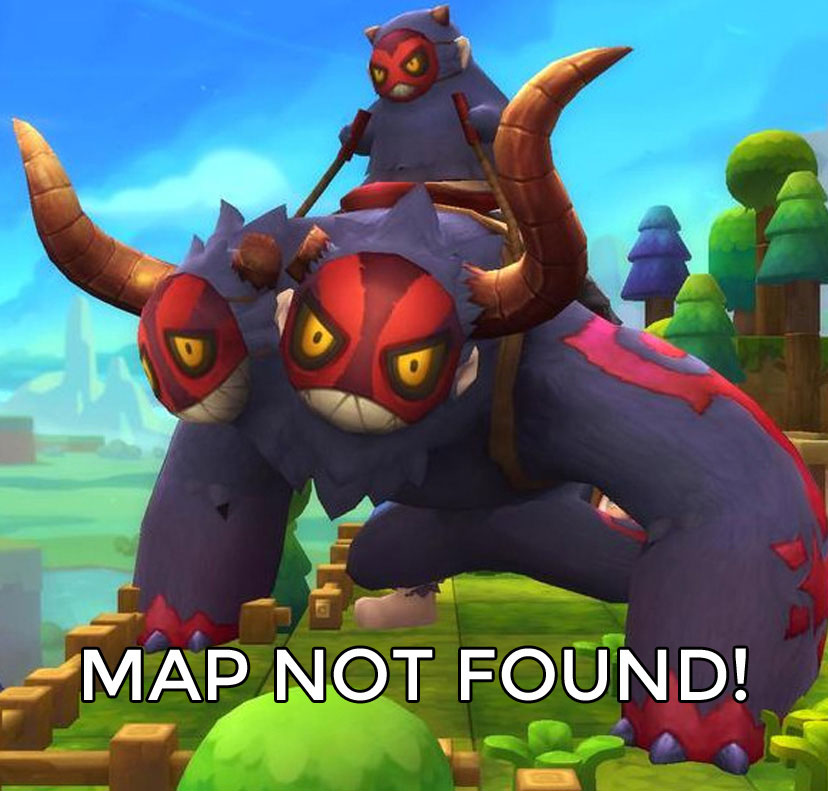
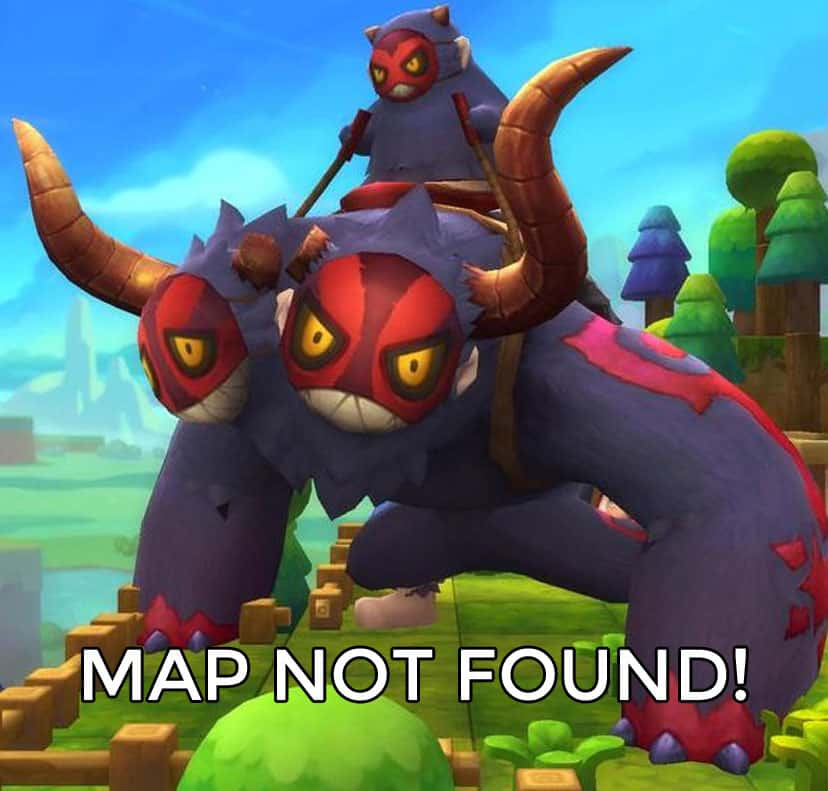
Optimization
Some image optimization.

Removed the loading of custom font "Montserrat". The improvement it gave wasn't big enough to hold up for the extra waiting time it took for it to load in.

diff --git a/stylesheets/index.css b/stylesheets/index.css
@@ -182,7 +182,7 @@ footer p{
 
 #cookies p{
 	color: #CCC;
-	font-size: 12px;
+	font-size: 11px;
 	white-space: pre-line;	
 }
 
@@ -361,15 +361,16 @@ footer p{
 }
 
 #golden_treasure{
-	position: relative;
+    position: relative;
     top: 50px;
     width: 1107px;
-    height: 791px;
-    background-image: url(../images/board.png);
+    height: 714px;
+    background-image: url(../images/board.jpg);
     background-repeat: no-repeat;
     background-size: contain;
-	margin-left: auto;
-	margin-right: auto;
+    margin-left: auto;
+    margin-right: auto;
+    border-radius: 5px;
 }
 
 #search{
@@ -499,15 +500,17 @@ a{
 }
 
 #window{
-	background-image:url('../images/window_new.png');
-	width: 988px;
-	height: 910px;
-	display: block;
-	position: absolute;
-	top: 50px;
-	left: calc(50% - 494px);
-	margin-bottom: 20px;
-	margin: auto;
+    background-image: url(../images/window_new.jpg);
+    width: 988px;
+    height: 910px;
+    display: block;
+    position: absolute;
+    top: 50px;
+    left: calc(50% - 494px);
+    margin-bottom: 20px;
+    margin: auto;
+    background-repeat: no-repeat;
+    background-position: 0px 12px;
 }
 
 #rank_bar{

diff --git a/index.html b/index.html
@@ -6,8 +6,6 @@
 	<meta name="description" content="A MapleStory 2 Fansite with Skill Calculator, Exploration Guide and Fishing minigame.">
 	<meta charset="utf-8">
 	<meta name="viewport" content="width=device-width, initial-scale=1, shrink-to-fit=no">
-
-	<link href="https://fonts.googleapis.com/css?family=Montserrat" rel="stylesheet">
 	
 	<link rel="icon" href="images/favicon.png">
 	
